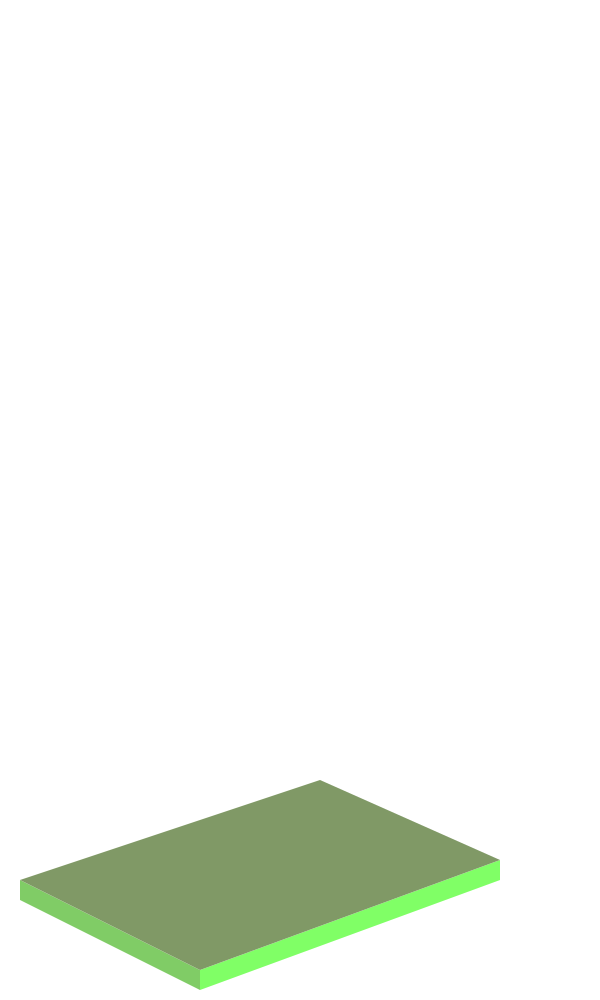
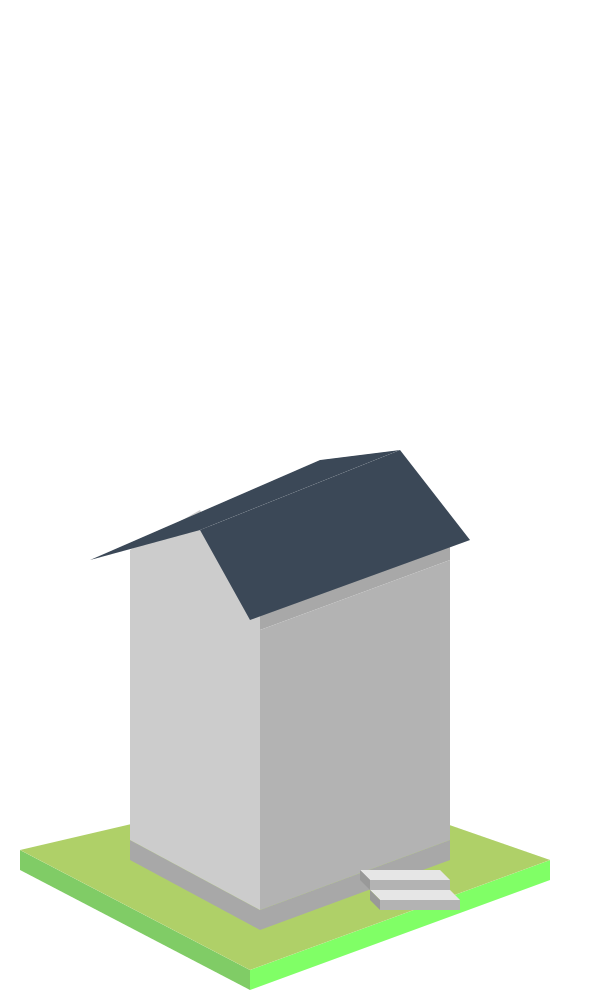
House + stairs(hanging)

Changed region(s): [[0.03, 0.434, 0.93, 0.992]]

diff --git a/house.py b/house.py
@@ -5,25 +5,132 @@ context = cairo.Context(surface)
 context.set_source_rgb(1,1,1)
 context.paint()
 
-context.move_to(200,990)
-context.line_to(20,900)
-context.line_to(20,880)
-context.line_to(200,970)
+#Green Base
+context.move_to(250,990)
+context.line_to(20,870)
+context.line_to(20,850)
+context.line_to(250,970)
 context.set_source_rgb(0.5,0.8,0.4)
 context.fill()
 
-context.move_to(200,970)
-context.line_to(500,860)
-context.line_to(500,880)
-context.line_to(200,990)
+context.move_to(250,970)
+context.line_to(550,860)
+context.line_to(550,880)
+context.line_to(250,990)
 context.set_source_rgb(0.5,1,0.4)
 context.fill()
 
-context.move_to(20,880)
-context.line_to(200,970)
-context.line_to(500,860)
+context.move_to(20,850)
+context.line_to(250,970)
+context.line_to(550,860)
 context.line_to(320,780)
-context.set_source_rgb(0.5,0.6,0.4)
+context.set_source_rgb(0.686, 0.816, 0.408)
+context.fill()
+
+#Grey House Base
+context.move_to(130, 860)
+context.line_to(130,840)
+context.line_to(260,910)
+context.line_to(450,840)
+context.line_to(450,860)
+context.line_to(260,930)
+context.set_source_rgb(0.66,0.66,0.66)
+context.fill()
+
+#House
+context.move_to(130,840)
+context.line_to(130,550)
+context.line_to(200,510)
+context.line_to(260,610)
+context.line_to(260,910)
+context.set_source_rgb(0.8,0.8,0.8)
+context.fill()
+
+context.move_to(260,910)
+context.line_to(260,630)
+context.line_to(450,560)
+context.line_to(450,840)
+context.set_source_rgb(0.7,0.7,0.7)
+context.fill()
+
+context.move_to(260,630)
+context.line_to(260,610)
+context.line_to(450,540)
+context.line_to(450,560)
+context.set_source_rgb(0.66,0.66,0.66)
+context.fill()
+
+#Roof(Left Part)
+context.move_to(200,530)
+context.line_to(90,560)
+context.line_to(320,460)
+context.line_to(400,450)
+context.set_source_rgb(0.231, 0.282, 0.341)
+context.fill()
+
+#Roof(Right Part)
+context.move_to(250,620)
+context.line_to(200,530)
+context.line_to(400,450)
+context.line_to(470,540)
+context.set_source_rgb(0.231, 0.282, 0.341)
+context.fill()
+
+# Stairs Code
+# Adjust these values to align the stairs with the house door
+base_x = 380  # Aligned with the center of the door
+base_y = 910  # Just below the base of the house
+
+cuboid_width = 80  # Adjusted to fit house proportions
+cuboid_height = 10
+cuboid_depth = 10
+
+# Draw the bottom step
+# Front face
+context.set_source_rgb(0.7, 0.7, 0.7)  # Medium grey
+context.rectangle(base_x, base_y - cuboid_height, cuboid_width, cuboid_height)
+context.fill()
+
+# Top face
+context.set_source_rgb(0.9, 0.9, 0.9)  # Light grey
+context.move_to(base_x, base_y - cuboid_height)
+context.line_to(base_x - cuboid_depth, base_y - cuboid_height - cuboid_depth)
+context.line_to(base_x - cuboid_depth + cuboid_width, base_y - cuboid_height - cuboid_depth)
+context.line_to(base_x + cuboid_width, base_y - cuboid_height)
+context.close_path()
+context.fill()
+
+# Side face
+context.set_source_rgb(0.6, 0.6, 0.6)  # Dark grey
+context.move_to(base_x, base_y - cuboid_height)
+context.line_to(base_x - cuboid_depth, base_y - cuboid_height - cuboid_depth)
+context.line_to(base_x - cuboid_depth, base_y - cuboid_depth)
+context.line_to(base_x, base_y)
+context.close_path()
+context.fill()
+
+# Draw the top step
+# Front face
+context.set_source_rgb(0.7, 0.7, 0.7)  # Medium grey
+context.rectangle(base_x - cuboid_depth, base_y - cuboid_height * 2 - cuboid_depth, cuboid_width, cuboid_height)
+context.fill()
+
+# Top face
+context.set_source_rgb(0.9, 0.9, 0.9)  # Light grey
+context.move_to(base_x - cuboid_depth, base_y - cuboid_height * 2 - cuboid_depth)
+context.line_to(base_x - cuboid_depth * 2, base_y - cuboid_height * 2 - cuboid_depth * 2)
+context.line_to(base_x - cuboid_depth * 2 + cuboid_width, base_y - cuboid_height * 2 - cuboid_depth * 2)
+context.line_to(base_x - cuboid_depth + cuboid_width, base_y - cuboid_height * 2 - cuboid_depth)
+context.close_path()
+context.fill()
+
+# Side face
+context.set_source_rgb(0.6, 0.6, 0.6)  # Dark grey
+context.move_to(base_x - cuboid_depth, base_y - cuboid_height * 2 - cuboid_depth)
+context.line_to(base_x - cuboid_depth * 2, base_y - cuboid_height * 2 - cuboid_depth * 2)
+context.line_to(base_x - cuboid_depth * 2, base_y - cuboid_depth * 2 - cuboid_height)
+context.line_to(base_x - cuboid_depth, base_y - cuboid_depth - cuboid_height)
+context.close_path()
 context.fill()
 
 surface.write_to_png("house.png")
